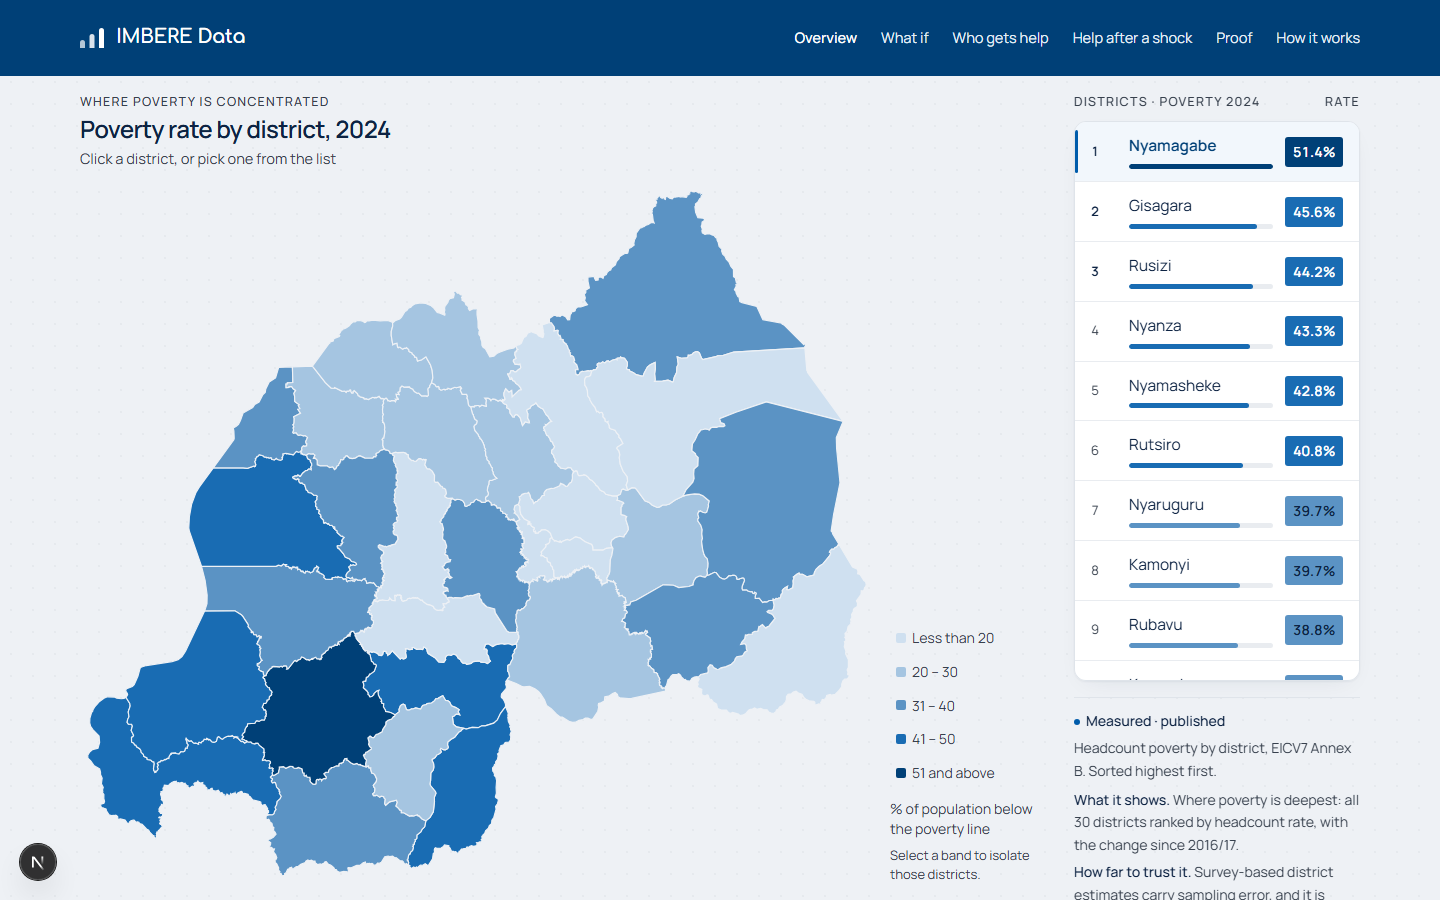
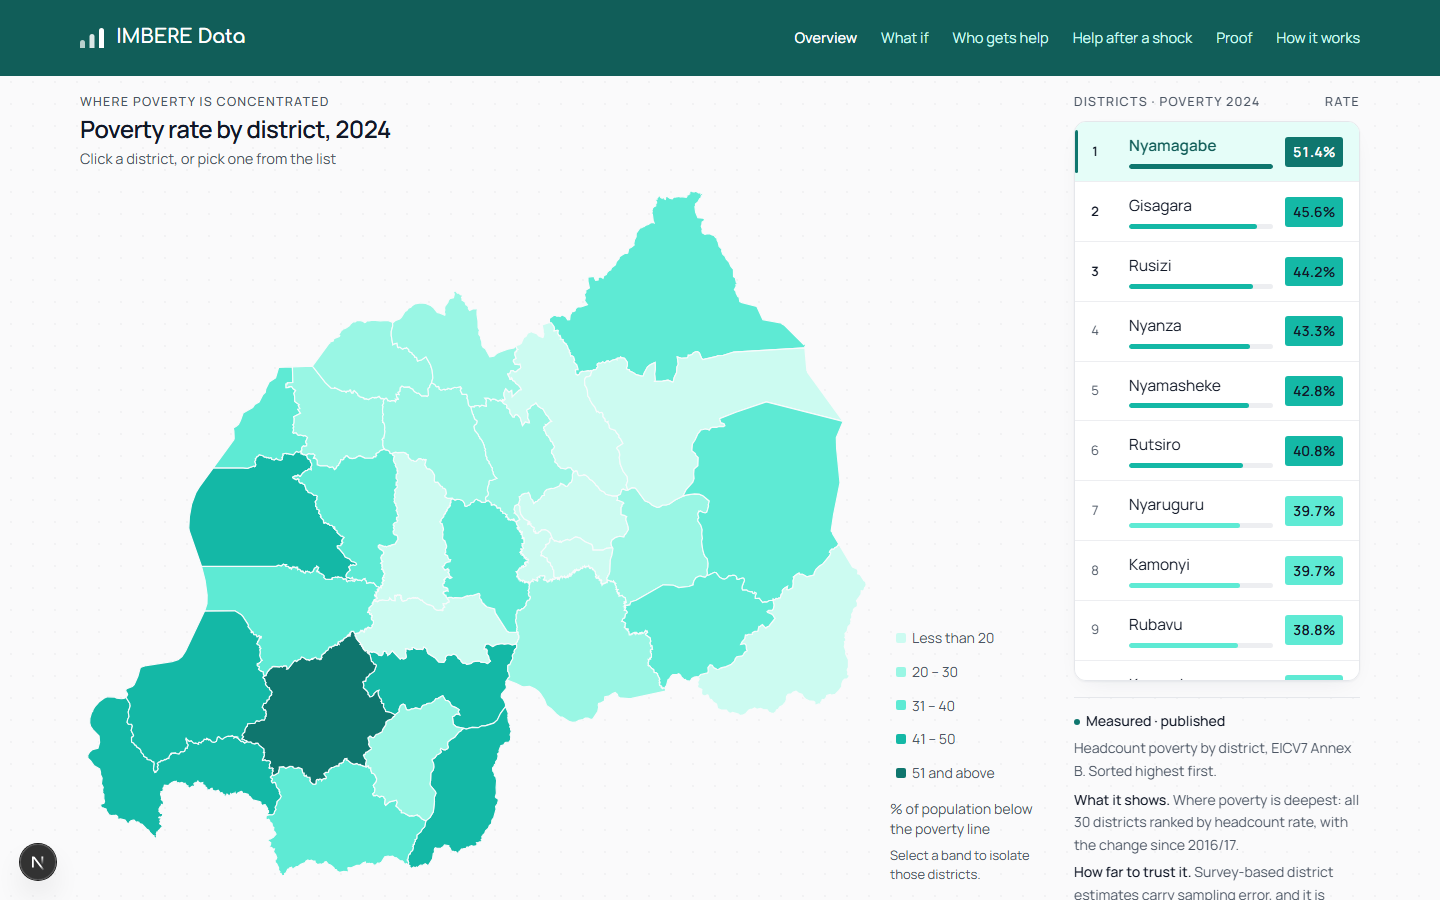
Retheme the interface to a calm teal palette
- Tokens: primary #0f766e, deep #115e59, soft #ccfbf1; warm #b45309 accent for modelled figures; outcome-only good/bad; near-white paper and neutral ink.
- Move the chart, map, donut, health-strip and targeting-rule hex values onto the same palette; regenerate the app icons on the deep teal field.
- Error panels now use the outcome red instead of the warm accent; theme colour and docs updated.
- Recapture the seven README screenshots on the new palette.

diff --git a/web/app/globals.css b/web/app/globals.css
@@ -1,28 +1,35 @@
 @import "tailwindcss";
 @import "tw-animate-css";
 
-/* Palette sourced from NISR (statistics.gov.rw) brand CSS variables:
-   brand blue #005cab, deep #004077, mid #196cb3, pale #a5c5e1, ink #0d2343,
-   body #37404d, light background #e6e9eb, warning/orange #c95100, success teal #008482. */
+/* Palette: a calm teal primary on near-white surfaces, with one warm accent kept for
+   "modelled" provenance and second series. Green/red are reserved for outcomes, never for
+   decoration. The token names are unchanged from the previous brand set so every component
+   keeps working; only the values moved. */
 @theme {
-  --color-paper: #eef1f5;
+  --color-paper: #fafafb;
   --color-surface: #ffffff;
-  --color-ink: #0d2343;
-  --color-ink-soft: #37404d;
-  --color-line: #dfe4ea;
-  --color-primary: #005cab;
-  --color-primary-deep: #004077;
-  --color-primary-soft: #e6f0f9;
-  --color-accent: #c95100;
-  /* accent-deep is the AA-safe partner of accent on the peach provenance tints below: #c95100 on
-     #f9e6dc measures 3.7:1 at 12px badge size, #b04800 measures 4.6:1. Keep them paired. */
-  --color-accent-deep: #b04800;
-  --color-accent-soft: #f9e6dc;
-  --color-teal: #008482;
+  --color-ink: #111827;
+  --color-ink-soft: #4b5563;
+  --color-line: #e5e7eb;
+  --color-primary: #0f766e;
+  --color-primary-deep: #115e59;
+  --color-primary-soft: #ccfbf1;
+  --color-accent: #b45309;
+  /* accent-deep is the AA-safe partner of accent on the sand provenance tints below: #b45309 on
+     #fef3c7 measures 4.0:1 at 12px badge size, #92400e measures 5.5:1. Keep them paired. */
+  --color-accent-deep: #92400e;
+  --color-accent-soft: #fef3c7;
+  /* Third series: cool cyan, far enough from the primary teal to read as a separate rule on a
+     chart while staying in the same family. Used for "assumed" provenance and community rules. */
+  --color-teal: #0e7490;
+
+  /* Outcome colours. Nothing else may use them. */
+  --color-good: #16a34a;
+  --color-bad: #dc2626;
 
   /* Semantic aliases read by the primitives in components/ui. The brand tokens above stay the
      source of truth; these exist so copy-in shadcn components read naturally. shadcn's "accent"
-     means a neutral hover surface, which collides with our orange accent, so hover is "hover"
+     means a neutral hover surface, which collides with our warm accent, so hover is "hover"
      here instead. */
   --color-background: var(--color-paper);
   --color-foreground: var(--color-ink);
@@ -33,11 +40,11 @@
   --color-primary-foreground: #ffffff;
   --color-secondary: var(--color-primary-soft);
   --color-secondary-foreground: var(--color-primary-deep);
-  --color-muted: #e6e9eb;
+  --color-muted: #f3f4f6;
   --color-muted-foreground: var(--color-ink-soft);
   --color-hover: var(--color-primary-soft);
   --color-hover-foreground: var(--color-primary-deep);
-  --color-destructive: #ce3936;
+  --color-destructive: var(--color-bad);
   --color-border: var(--color-line);
   --color-input: var(--color-line);
   --color-ring: var(--color-primary);
@@ -157,7 +164,7 @@
 
 /* Soft paper grain so large flat areas do not look like a generic dashboard. */
 .paper-grain {
-  background-image: radial-gradient(rgba(13, 35, 67, 0.04) 1px, transparent 1px);
+  background-image: radial-gradient(rgba(17, 24, 39, 0.035) 1px, transparent 1px);
   background-size: 22px 22px;
 }
 

diff --git a/web/app/targeting/page.tsx b/web/app/targeting/page.tsx
@@ -43,11 +43,11 @@ import { num, pct, rwf, rwfValue } from "@/lib/format";
 import { useSlowNotice } from "@/lib/useSlowNotice";
 
 const COLORS: Record<string, string> = {
-  universal: "#acaeb0",
-  geographic: "#5b93c4",
-  community: "#008482",
-  financial_exclusion: "#c95100",
-  pmt: "#005cab",
+  universal: "#9ca3af",
+  geographic: "#5eead4",
+  community: "#0e7490",
+  financial_exclusion: "#b45309",
+  pmt: "#0f766e",
 };
 
 const DEFAULT_BUDGET = 300_000_000;
@@ -878,28 +878,28 @@ export default function TargetingPage() {
                       barGap={2}
                       barCategoryGap="18%"
                     >
-                      <CartesianGrid stroke="#dfe4ea" strokeDasharray="3 3" vertical={false} />
+                      <CartesianGrid stroke="#e5e7eb" strokeDasharray="3 3" vertical={false} />
                       <XAxis
                         dataKey="caseload_pct"
                         tickFormatter={(v) => `${v}%`}
-                        tick={{ fontSize: 12.5, fill: "#37404d" }}
+                        tick={{ fontSize: 12.5, fill: "#4b5563" }}
                         tickLine={false}
-                        axisLine={{ stroke: "#dfe4ea" }}
+                        axisLine={{ stroke: "#e5e7eb" }}
                         label={{
                           value: "Households enrolled (% of sample)",
                           position: "insideBottom",
                           offset: -16,
                           fontSize: 12.5,
-                          fill: "#37404d",
+                          fill: "#4b5563",
                         }}
                       />
                       <YAxis
                         domain={[0, 100]}
                         ticks={[0, 25, 50, 75, 100]}
                         tickFormatter={(v) => `${v}%`}
-                        tick={{ fontSize: 12.5, fill: "#37404d" }}
+                        tick={{ fontSize: 12.5, fill: "#4b5563" }}
                         tickLine={false}
-                        axisLine={{ stroke: "#dfe4ea" }}
+                        axisLine={{ stroke: "#e5e7eb" }}
                         width={40}
                       />
                       <Tooltip
@@ -907,7 +907,7 @@ export default function TargetingPage() {
                         labelFormatter={(v) => `${v}% of households enrolled`}
                         contentStyle={{
                           background: "#ffffff",
-                          border: "1px solid #dfe4ea",
+                          border: "1px solid #e5e7eb",
                           borderRadius: 6,
                           fontSize: 13,
                         }}

diff --git a/web/components/MultiLine.tsx b/web/components/MultiLine.tsx
@@ -37,20 +37,20 @@ export function MultiLine({
     <div>
       <ResponsiveContainer width="100%" height={320}>
         <AreaChart data={data} margin={{ top: 10, right: 14, left: 8, bottom: 34 }}>
-          <CartesianGrid stroke="#dfe4ea" strokeDasharray="3 3" vertical={false} />
+          <CartesianGrid stroke="#e5e7eb" strokeDasharray="3 3" vertical={false} />
           <XAxis
             dataKey={xKey}
-            tick={{ fontSize: 13, fill: "#37404d" }}
+            tick={{ fontSize: 13, fill: "#4b5563" }}
             tickLine={false}
-            axisLine={{ stroke: "#dfe4ea" }}
-            label={{ value: xLabel, position: "insideBottom", offset: -18, fontSize: 13, fill: "#37404d" }}
+            axisLine={{ stroke: "#e5e7eb" }}
+            label={{ value: xLabel, position: "insideBottom", offset: -18, fontSize: 13, fill: "#4b5563" }}
           />
           <YAxis
             domain={[0, top]}
             tickFormatter={(v) => format(Number(v))}
-            tick={{ fontSize: 13, fill: "#37404d" }}
+            tick={{ fontSize: 13, fill: "#4b5563" }}
             tickLine={false}
-            axisLine={{ stroke: "#dfe4ea" }}
+            axisLine={{ stroke: "#e5e7eb" }}
             width={52}
             label={{
               value: yLabel,
@@ -58,7 +58,7 @@ export function MultiLine({
               position: "insideLeft",
               offset: 8,
               fontSize: 13,
-              fill: "#37404d",
+              fill: "#4b5563",
               style: { textAnchor: "middle" },
             }}
           />
@@ -66,13 +66,13 @@ export function MultiLine({
             formatter={(value, name) => [format(Number(value)), name]}
             contentStyle={{
               background: "#ffffff",
-              border: "1px solid #dfe4ea",
+              border: "1px solid #e5e7eb",
               borderRadius: 6,
               fontSize: 13,
             }}
           />
           <Legend
-            wrapperStyle={{ fontSize: 12.5, color: "#37404d", paddingTop: 12 }}
+            wrapperStyle={{ fontSize: 12.5, color: "#4b5563", paddingTop: 12 }}
             content={({ payload }) => (
               <div className="flex flex-wrap items-center justify-center gap-x-5 gap-y-1 pt-3 text-[12.5px] text-ink-soft">
                 {(payload ?? []).map((entry, i) => (

diff --git a/web/components/BarList.tsx b/web/components/BarList.tsx
@@ -31,8 +31,8 @@ export function BarList({
    */
   valueLabels?: boolean;
 }) {
-  const fill = color === "accent" ? "#c95100" : color === "ink" ? "#0d2343" : "#005cab";
-  const hiFill = highlightColor === "teal" ? "#008482" : "#c95100";
+  const fill = color === "accent" ? "#b45309" : color === "ink" ? "#111827" : "#0f766e";
+  const hiFill = highlightColor === "teal" ? "#0e7490" : "#b45309";
   const data = items.map((item) => ({
     name: item.label,
     value: item.value,
@@ -55,20 +55,20 @@ export function BarList({
         margin={{ top: 4, right, bottom: 4, left: 4 }}
         barCategoryGap="28%"
       >
-        <CartesianGrid horizontal={false} stroke="#dfe4ea" strokeDasharray="3 3" />
+        <CartesianGrid horizontal={false} stroke="#e5e7eb" strokeDasharray="3 3" />
         <XAxis
           type="number"
           domain={[0, max ?? "auto"]}
           tickFormatter={(v) => format(Number(v))}
-          tick={{ fontSize: 12, fill: "#37404d" }}
+          tick={{ fontSize: 12, fill: "#4b5563" }}
           tickLine={false}
-          axisLine={{ stroke: "#dfe4ea" }}
+          axisLine={{ stroke: "#e5e7eb" }}
         />
         <YAxis
           type="category"
           dataKey="name"
           width={170}
-          tick={{ fontSize: 13, fill: "#37404d" }}
+          tick={{ fontSize: 13, fill: "#4b5563" }}
           tickLine={false}
           axisLine={false}
         />
@@ -79,7 +79,7 @@ export function BarList({
           ]}
           contentStyle={{
             background: "#ffffff",
-            border: "1px solid #dfe4ea",
+            border: "1px solid #e5e7eb",
             borderRadius: 6,
             fontSize: 13,
           }}
@@ -103,7 +103,7 @@ export function BarList({
                 <text
                   x={x + width + 8}
                   y={y + height / 2}
-                  fill="#37404d"
+                  fill="#4b5563"
                   fontSize={12}
                   dominantBaseline="middle"
                 >

diff --git a/web/components/RwandaMap.tsx b/web/components/RwandaMap.tsx
@@ -13,14 +13,14 @@ type Feature = {
 type Geo = { type: string; features: Feature[] };
 
 // Legend bins mirror the EICV7 Poverty Profile map so the two can be read side by side.
-// The map now sits on the paper rather than on a white card, so the two lightest bins are
-// deepened: #e3edf7 on #eef1f5 disappeared into the page.
+// A teal ramp: light enough for the low bins on the paper background, dark enough for the
+// top bin to carry white labels.
 const BINS = [
-  { max: 20, color: "#cfe0f0", ink: "#0d2343", label: "Less than 20" },
-  { max: 30, color: "#a5c5e1", ink: "#0d2343", label: "20 – 30" },
-  { max: 40, color: "#5b93c4", ink: "#0d2343", label: "31 – 40" },
-  { max: 50, color: "#196cb3", ink: "#ffffff", label: "41 – 50" },
-  { max: Infinity, color: "#004077", ink: "#ffffff", label: "51 and above" },
+  { max: 20, color: "#ccfbf1", ink: "#111827", label: "Less than 20" },
+  { max: 30, color: "#99f6e4", ink: "#111827", label: "20 – 30" },
+  { max: 40, color: "#5eead4", ink: "#111827", label: "31 – 40" },
+  { max: 50, color: "#14b8a6", ink: "#111827", label: "41 – 50" },
+  { max: Infinity, color: "#0f766e", ink: "#ffffff", label: "51 and above" },
 ];
 
 /** Index of the bin a poverty rate falls in. Shared by the legend filter and the colours. */
@@ -130,7 +130,7 @@ export function RwandaMap({
               <path
                 key={p.name}
                 d={p.d}
-                fill={d ? binColor(d.poverty_2024) : "#dfe4ea"}
+                fill={d ? binColor(d.poverty_2024) : "#e5e7eb"}
                 // A legend band narrows the map to its own districts; the rest stay in place,
                 // faint, so the country's shape and the selected district never jump.
                 opacity={inFocus ? 1 : 0.22}

diff --git a/web/components/Ui.tsx b/web/components/Ui.tsx
@@ -240,16 +240,16 @@ export function PanelState({
   return (
     <Card
       className={`items-start gap-4 p-6 sm:p-8 ${
-        kind === "error" ? "border-accent/60 bg-accent/5" : kind === "empty" ? "border-line" : ""
+        kind === "error" ? "border-bad/40 bg-bad/5" : kind === "empty" ? "border-line" : ""
       }`}
       role={kind === "error" ? "alert" : "status"}
       aria-live={kind === "error" ? "assertive" : "polite"}
     >
       <div className="flex items-start gap-3">
         {kind === "error" ? (
-          <div className="mt-0.5 flex h-9 w-9 flex-shrink-0 items-center justify-center rounded-full bg-accent/10">
+          <div className="mt-0.5 flex h-9 w-9 flex-shrink-0 items-center justify-center rounded-full bg-bad/10">
             <svg
-              className="h-5 w-5 text-accent"
+              className="h-5 w-5 text-bad"
               fill="none"
               viewBox="0 0 24 24"
               stroke="currentColor"
@@ -267,7 +267,7 @@ export function PanelState({
         <div className="flex-1 space-y-1">
           <p
             className={`text-[17px] font-medium leading-relaxed ${
-              kind === "error" ? "text-accent" : kind === "empty" ? "text-ink" : "text-ink-soft"
+              kind === "error" ? "text-bad" : kind === "empty" ? "text-ink" : "text-ink-soft"
             }`}
           >
             {children}

diff --git a/web/app/page.tsx b/web/app/page.tsx
@@ -25,11 +25,13 @@ import { apiGet, type District, type Meta } from "@/lib/api";
 import { compact, num, pct, signed } from "@/lib/format";
 
 // Chart colours cannot use Tailwind classes; kept in step with the tokens in globals.css.
+// Severity runs deep teal to red: healthy households are the brand colour, vulnerable ones
+// take the outcome red, so the four segments read in order without a legend.
 const HEALTH = [
-  { key: "healthy", label: "Healthy", color: "#004077" },
-  { key: "coping", label: "Coping", color: "#196cb3" },
-  { key: "vulnerable", label: "Vulnerable", color: "#008482" },
-  { key: "extremely_vulnerable", label: "Extremely vulnerable", color: "#c95100" },
+  { key: "healthy", label: "Healthy", color: "#115e59" },
+  { key: "coping", label: "Coping", color: "#0f766e" },
+  { key: "vulnerable", label: "Vulnerable", color: "#b45309" },
+  { key: "extremely_vulnerable", label: "Extremely vulnerable", color: "#dc2626" },
 ] as const;
 
 /**
@@ -788,7 +790,7 @@ function MiniBar({
       <span className="h-[5px] overflow-hidden rounded-[1px] bg-line" aria-hidden>
         <MotionBar
           as="span"
-          className={`block h-full ${muted ? "bg-[#acaeb0]" : "bg-[#004077]"}`}
+          className={`block h-full ${muted ? "bg-[#9ca3af]" : "bg-[#115e59]"}`}
           value={Math.max(2, (value / max) * 100)}
         />
       </span>

diff --git a/web/components/Logo.tsx b/web/components/Logo.tsx
@@ -2,12 +2,12 @@
  * Three ascending columns on a shared baseline — access, savings, resilience, and a nod to
  * "imbere" (forward). Vertical, because horizontal bars at this size read as a hamburger menu.
  * Flat feet on one baseline make it a chart rather than three floating pills; brightness
- * steps 70 → 85 → 100 carry the hierarchy that the brand orange cannot (#c95100 on the navy
- * header is barely 2:1 and would look like a smudge). The 70 floor matches the favicon: at
- * 55 the shortest column washed out against navy at tab size.
+ * steps 70 → 85 → 100 carry the hierarchy that the warm accent cannot (#b45309 on the deep
+ * teal is barely 2:1 and would look like a smudge). The 70 floor matches the favicon: at
+ * 55 the shortest column washed out at tab size.
  *
- * The lockup inherits `currentColor`, so the surface decides the tone: the navy header passes
- * `text-white`, the paper footer passes `text-primary-deep`. No chip or plate is needed, and
+ * The lockup inherits `currentColor`, so the surface decides the tone: the white top bar
+ * passes `text-primary-deep`, the paper footer does the same. No chip or plate is needed, and
  * the mark never carries a background of its own.
  */
 export function Logo({ className = "" }: { className?: string }) {

diff --git a/web/components/DonutChart.tsx b/web/components/DonutChart.tsx
@@ -3,7 +3,7 @@
 import { useReducedMotion } from "framer-motion";
 import { Cell, Pie, PieChart, ResponsiveContainer, Tooltip } from "recharts";
 
-const PALETTE = ["#005cab", "#c95100", "#008482", "#196cb3", "#5b93c4", "#0d2343", "#a5c5e1"];
+const PALETTE = ["#0f766e", "#b45309", "#0e7490", "#115e59", "#5eead4", "#111827", "#ccfbf1"];
 
 export function DonutChart({
   items,
@@ -49,7 +49,7 @@ export function DonutChart({
               formatter={(value) => format(Number(value))}
               contentStyle={{
                 background: "#ffffff",
-                border: "1px solid #dfe4ea",
+                border: "1px solid #e5e7eb",
                 borderRadius: 6,
                 fontSize: 13,
               }}

diff --git a/web/components/Nav.tsx b/web/components/Nav.tsx
@@ -15,7 +15,7 @@ const LINKS = [
 ];
 
 /**
- * Brand-blue bar, the same surface as the overview hero, so the two read as one band
+ * Deep-teal bar, the same surface as the overview hero, so the two read as one band
  * rather than a paper strip sitting above a colour panel.
  */
 export function Nav() {

diff --git a/web/app/layout.tsx b/web/app/layout.tsx
@@ -18,7 +18,7 @@ export const metadata: Metadata = {
 };
 
 export const viewport: Viewport = {
-  themeColor: "#005cab",
+  themeColor: "#0f766e",
 };
 
 export default function RootLayout({ children }: { children: React.ReactNode }) {

diff --git a/README.md b/README.md
@@ -97,7 +97,7 @@ The competition scores five criteria at 20 points each. What each one would find
 | **1 · Problem understanding & relevance** | The problem is a measured gap: 96% of adults are financially included, 34% are vulnerable, 27.4% are below the poverty line. Each NST2 Social Transformation target and the Vision 2050 goal is mapped to the module answering it, and the actors are named: LODA, MINALOC, district officers. | Overview *Built for* band; `/methodology` → *Where this sits in national policy* |
 | **2 · Data use & methodology** | Two NISR surveys (EICV7 Poverty Profile, FinScope 2024) plus Census 2022 and geoBoundaries. 39 transcribed indicators, reconciled to the published 27.4% headcount when population-weighted. FGT incidence, depth and severity (P₀ 27.9%, P₁ 6.1%, P₂ 2.2%) with the formula and weights on the page. The household layer is calibrated to nine published marginals; the risk model is evaluated five-fold out-of-fold (ROC-AUC 0.853, PR-AUC 0.672, Brier 0.135, ECE 0.008) with a sensitivity sweep bounding how much of the conclusion depends on that score. One CSV swap replaces the synthetic rows with real microdata. | `/methodology`; `data/processed/calibration.json`; `api/app/datastore.py` |
 | **3 · Tech innovation** | A targeting optimiser rather than a dashboard: five allocation rules priced on the same budget and the same households, geographic-fairness ratios, compound shock scenarios with per-shock attribution, bootstrap intervals on every headline figure, a degradation sweep that stress-tests the targeting conclusion, and real-vs-modelled separation enforced in the API. | `/targeting`, `/simulator`; `api/app/analytics.py`; `api/tests/` |
-| **4 · Usability & design** | Seven pages, one visual language taken from NISR's own palette. Every panel is labelled *Measured · published* or *Modelled · illustrative*. Tables scroll inside a focusable region rather than breaking the page, nothing overflows at 390px, and the palette is checked against WCAG AA. | The app itself; `screenshots/`; `web/components/ui/` |
+| **4 · Usability & design** | Seven pages, one visual language on a calm teal palette. Every panel is labelled *Measured · published* or *Modelled · illustrative*. Tables scroll inside a focusable region rather than breaking the page, nothing overflows at 390px, and the palette is checked against WCAG AA. | The app itself; `screenshots/`; `web/components/ui/` |
 | **5 · Tangible impact** | A number a budget officer can act on: at RWF 300m the proxy-means rule reaches 2.7× more poor households than a universal transfer, and leakage falls from 71.2% to 21.9%. A district can cost a drought reserve in a browser; the next dataset (EICV7 VUP module, catalog 121) is named, which is what would turn selection performance into measured programme impact. | `/targeting` headline cards; *Recommendations* below |
 
 ---
